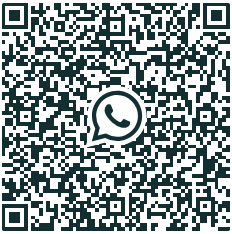
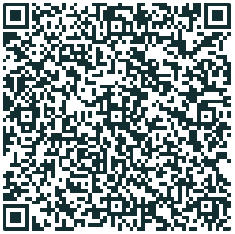
Initial Commit

diff --git a/content.js b/content.js
@@ -14,7 +14,7 @@
     img.style.cssText = canvas.style.cssText;
 
     // Preserve the canvas dimensions.
-    img.width = canvas.width;
+    // img.width = canvas.width;
     // img.height = canvas.height;
 
     // Preserve relevant attributes.
@@ -38,7 +38,7 @@
         root.matches(SELECTOR)) {
       replaceCanvas(root);
     }
-    removeWhatsappSVG();
+    // removeWhatsappSVG();
     root.querySelectorAll?.(SELECTOR).forEach(replaceCanvas);
   }
 
